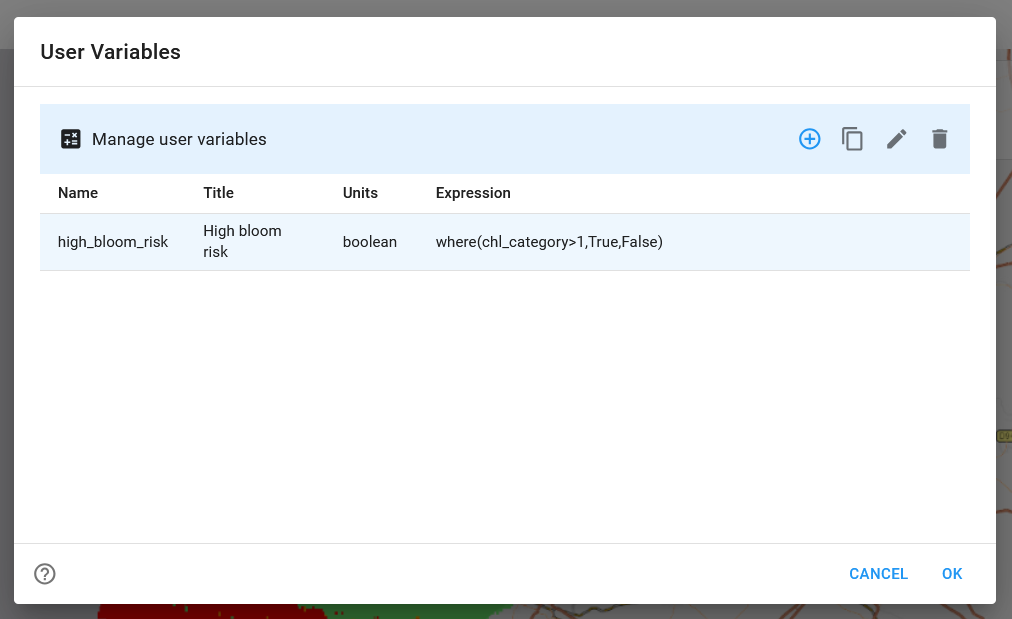
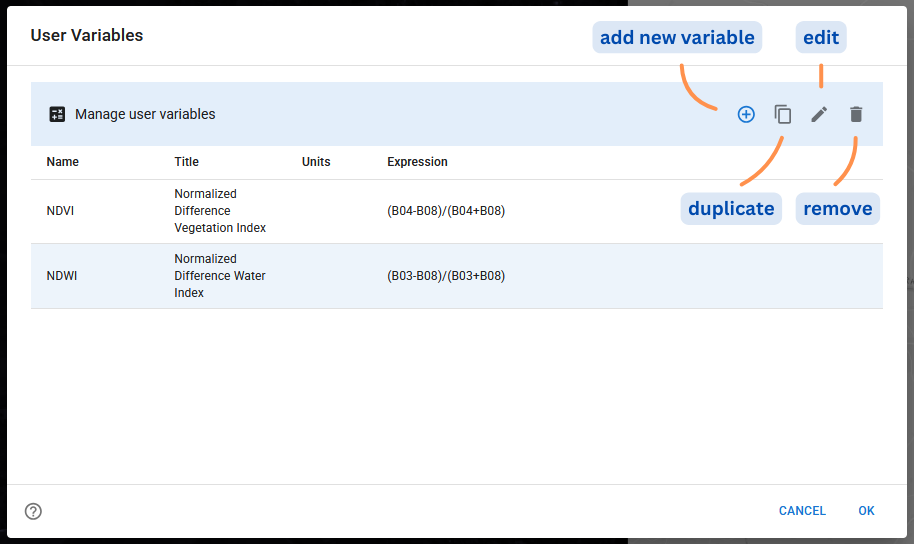
docs - update sections regarding User Variables

diff --git a/docs/user_guide/analyse.md b/docs/user_guide/analyse.md
@@ -63,9 +63,10 @@ For point places:
 
 ## User Variables
 
-![User Variables](../assets/images/analysis_uservariables.png)
-
-Define your own variables computed from Python-like expressions. The expressions can combine other variables of the [current dataset](../concepts.md/#selected-dataset) using almost all Python operators and all [numpy universal functions](https://numpy.org/doc/stable/reference/ufuncs.html#available-ufuncs). User data variables are persisted in the browser's local storage.
+Define your own variables computed from Python-like expressions. The expressions 
+can combine other variables of the [current dataset](../concepts.md/#selected-dataset) using almost all Python 
+operators and all [numpy universal functions](https://numpy.org/doc/stable/reference/ufuncs.html#available-ufuncs). User data variables are 
+persisted in the browser's local storage.
 
 ??? info "In more detail"
 
@@ -110,6 +111,39 @@ Define your own variables computed from Python-like expressions. The expressions
 
     CTRL+SPACE: activates the autocomplete feature, which lists
     available Python functions and constants
+
+Open the User Variables Window via the button on the header:
+
+![User Variables](../assets/images/analysis_uservariables.png)
+
+In the User Variables Window:
+
+- New user variables can be created and [added](#add-user-variable).
+- Existing user variables can be [edited](#edit-user-variable), duplicated,
+  and removed.
+
+![user_variables_management.png](../assets/images/user_variables_management.png)
+
+
+### Add
+
+1. Open the User Variables window
+2. Use the `+` - button to open the `Add Variable` - Dialog.
+3. Set at least a unique identifier (`Name`) and a valid expression.
+4. Add the **new** variable.
+
+![user_variables_add.gif](../assets/videos/user_variables_add.gif)
+
+For more information on this feature, [see the feature references](../features.md#add-user-variable).
+
+### Edit
+
+1. Open the User Variables window.
+2. Use the `edit` - button to open the `Edit Variable` - Dialog.
+3. Edit the identifier, title, unit or expression.
+4. Apply the changes to the **selected** variable.
+
+For more information on this feature, [see the feature references](../features.md#edit-user-variable).
 
 ---
 

diff --git a/docs/features.md b/docs/features.md
@@ -862,6 +862,15 @@ A list of all the features that the viewer contains will be created here, in whi
 ### Edit User Variable
 
 <table>
+	<thead>
+		<tr>
+			<th colspan="2">
+				<img
+					src="../assets/images/user_variables_edit.png"
+					alt="Add User Variable" />
+			</th>
+		</tr>
+	</thead>
 	<tbody>
 		<tr>
 			<td><b>Feature Name</b></td>
@@ -871,10 +880,9 @@ A list of all the features that the viewer contains will be created here, in whi
 			<td><b>Description</b></td>
 			<td>
 				A window that opens using the <code>Edit</code>-button in the User
-				Variables Management menu. For layout see
-				<a href="#add-user-variable" rel="noopener noreferrer"
-					>add user variables</a
-				>.
+				Variables Management menu. The window contains input fields for name,
+        title, units, and expression. There is also an option to display various
+        optional components of the expression. 
 			</td>
 		</tr>
 		<tr>
